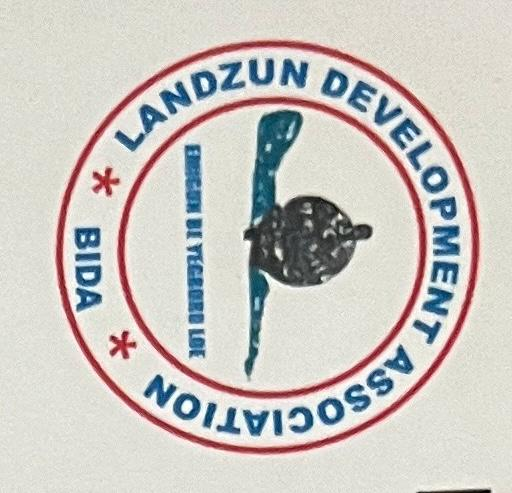
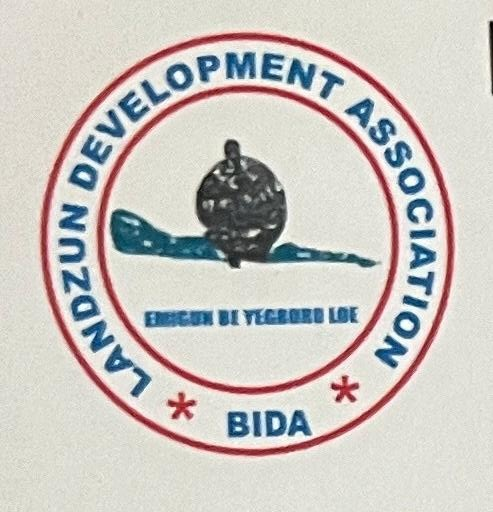
Turn the association's seal upright
The seal photo was saved rotated 90 degrees, so it sat sideways in the
navbar, the about section, the footer and the favicon. Rotate the image
itself and re-centre the circular crop on the ring.

diff --git a/src/components/seal.tsx b/src/components/seal.tsx
@@ -20,7 +20,7 @@ export const Seal: FC<{ className?: string; decorative?: boolean }> = ({
     <img
       src={Images.LanzdunDevLogo}
       alt={decorative ? "" : `Seal of the ${appConfigs.name}`}
-      className="h-full w-full scale-[1.16] object-cover object-[52%_50%] mix-blend-multiply"
+      className="h-full w-full scale-[1.16] object-cover object-[50%_0%] mix-blend-multiply"
     />
   </span>
 );
